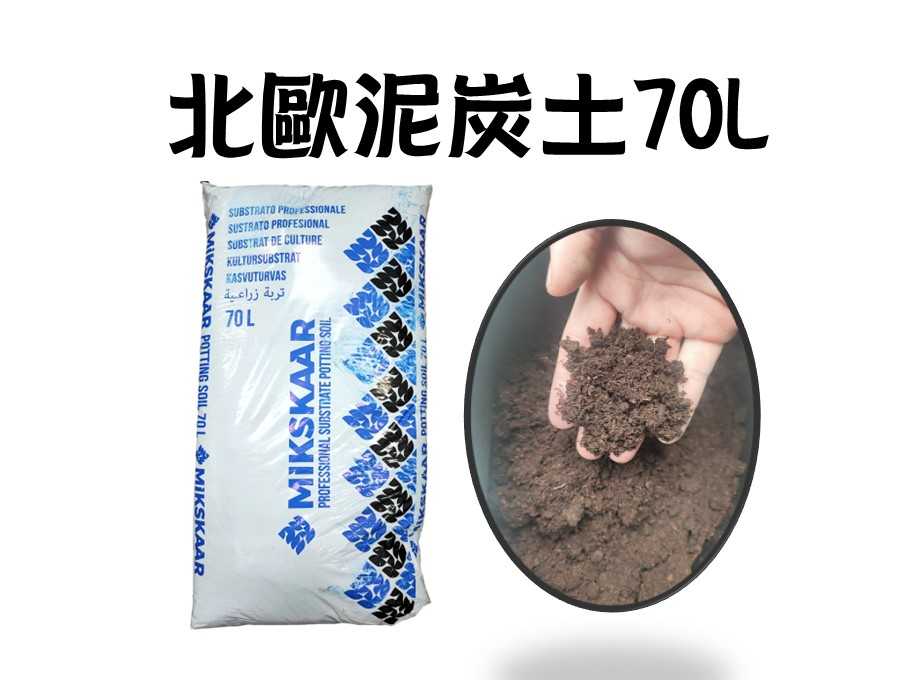
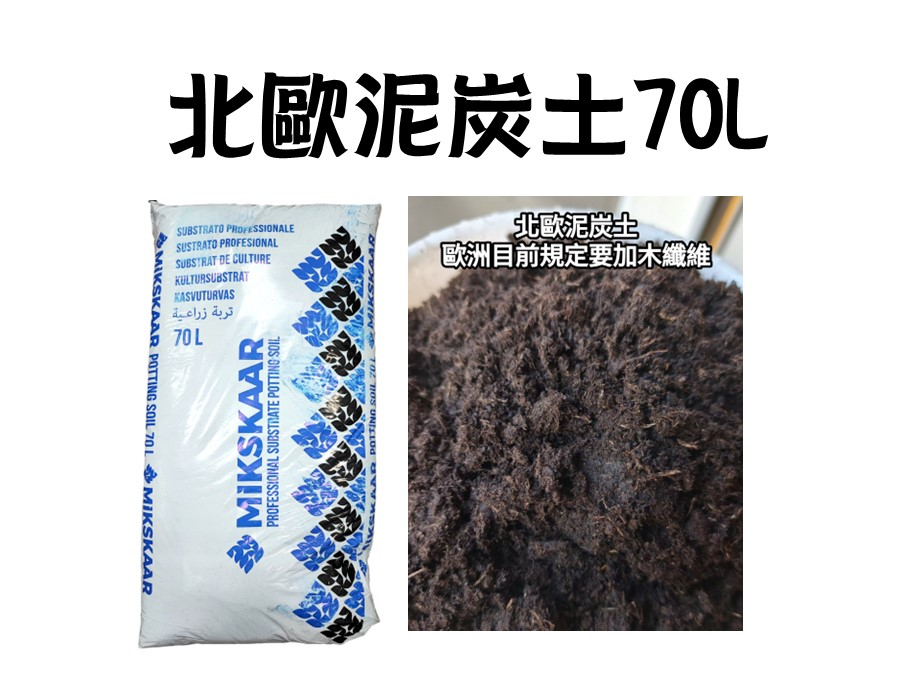
123

diff --git a/index.html b/index.html
@@ -1444,13 +1444,14 @@ const PRODUCTS = [
   {
     id:'beiounitantu',
     category:'nonGranule',
-    name:'北歐泥炭土 培養 介質 酸性 草莓 栽培',
+    name:'北歐泥炭土 乾淨 添加木纖維',
+    tags:['北歐泥炭土','培養土','介質','酸性','草莓','栽培'],
     description:'70L，PH值5.5-6.5，適合大部分植物',
     image:'images/beiounitantu.jpg',
     images:['images/beiounitantu.jpg', 'images/beiounitantu2.jpg'],
     unit:'個',
     variants:[
-    { label:'育苗 辣椒 多肉 MPS1',   basePrice:380, discounts:{ TTFF:380, LACS:380, TCGH:380, ESWS:380 } },
+    { label:'添加木纖維',   basePrice:400, discounts:{ TTFF:380, LACS:380, TCGH:380, ESWS:380 } },
     ]
   },
   {
@@ -1484,14 +1485,16 @@ const PRODUCTS = [
     {
     id:'deguonitantu',
     category:'nonGranule',
-    name:'德國泥炭土 培養 介質 酸性 草莓 栽培',
-    description:'250L最大顆，PH值約3-4，適合藍莓喜酸植物',
+    name:'德國泥炭土 酸性土 藍莓草莓',
+    tags:['德國泥炭土','培養土','介質','酸性','草莓','栽培'],
+    description:'250L最大顆，PH值約4-6，適合藍莓喜酸植物',
     image:'images/deguonitantu.jpg',
     images:['images/deguonitantu.jpg', 'images/deguonitantu2.jpg'],
     unit:'個',
     variants:[
-      { label:'德國純泥炭土250L',   basePrice:700, discounts:{ TTFF:680, LACS:680, TCGH:680, ESWS:680 } },
-      { label:'德國純泥炭土70L(棧板販售)',   basePrice:400, discounts:{ TTFF:400, LACS:400, TCGH:400, ESWS:400 } },
+      { label:'純泥炭土250L',   basePrice:760, discounts:{ TTFF:680, LACS:680, TCGH:680, ESWS:680 } },
+      { label:'新品(粗纖維)純泥炭土70L',   basePrice:400, discounts:{ TTFF:400, LACS:400, TCGH:400, ESWS:400 } },
+      { label:'(細纖維)純泥炭土70L(缺貨)',   basePrice:400, discounts:{ TTFF:400, LACS:400, TCGH:400, ESWS:400 } },
     ]
   },
   {
@@ -2560,6 +2563,21 @@ const PRODUCTS = [
     variants:[
       { label:'金玉肥5kg',   basePrice:130, discounts:{ TTFF:130, LACS:130, TCGH:130, ESWS:130 } },
       { label:'金玉肥20kg',   basePrice:380, discounts:{ TTFF:380, LACS:380, TCGH:380, ESWS:380 } },
+    ]
+  },
+  {
+    id:'huaduoli',
+    category:'fertilizer',
+    name:'花多利 有機肥',
+    tags:['有機肥','通用肥','肥料'],
+    description:'350g/包，網包粉狀，開花，觀葉，碩果，盆栽，通用肥料',
+    image:'images/huaduoli.jpg',
+    images:['images/huaduoli.jpg', 'images/huaduoli2.jpg'],
+    unit:'個',
+    variants:[
+      { label:'碩果 瓜類果樹',   basePrice:80, discounts:{ TTFF:80, LACS:80, TCGH:80, ESWS:80 } },
+      { label:'開花 蓮花適用',   basePrice:80, discounts:{ TTFF:80, LACS:80, TCGH:80, ESWS:80 } },
+      { label:'觀葉 通用 成長',   basePrice:80, discounts:{ TTFF:80, LACS:80, TCGH:80, ESWS:80 } },
     ]
   },
   {
